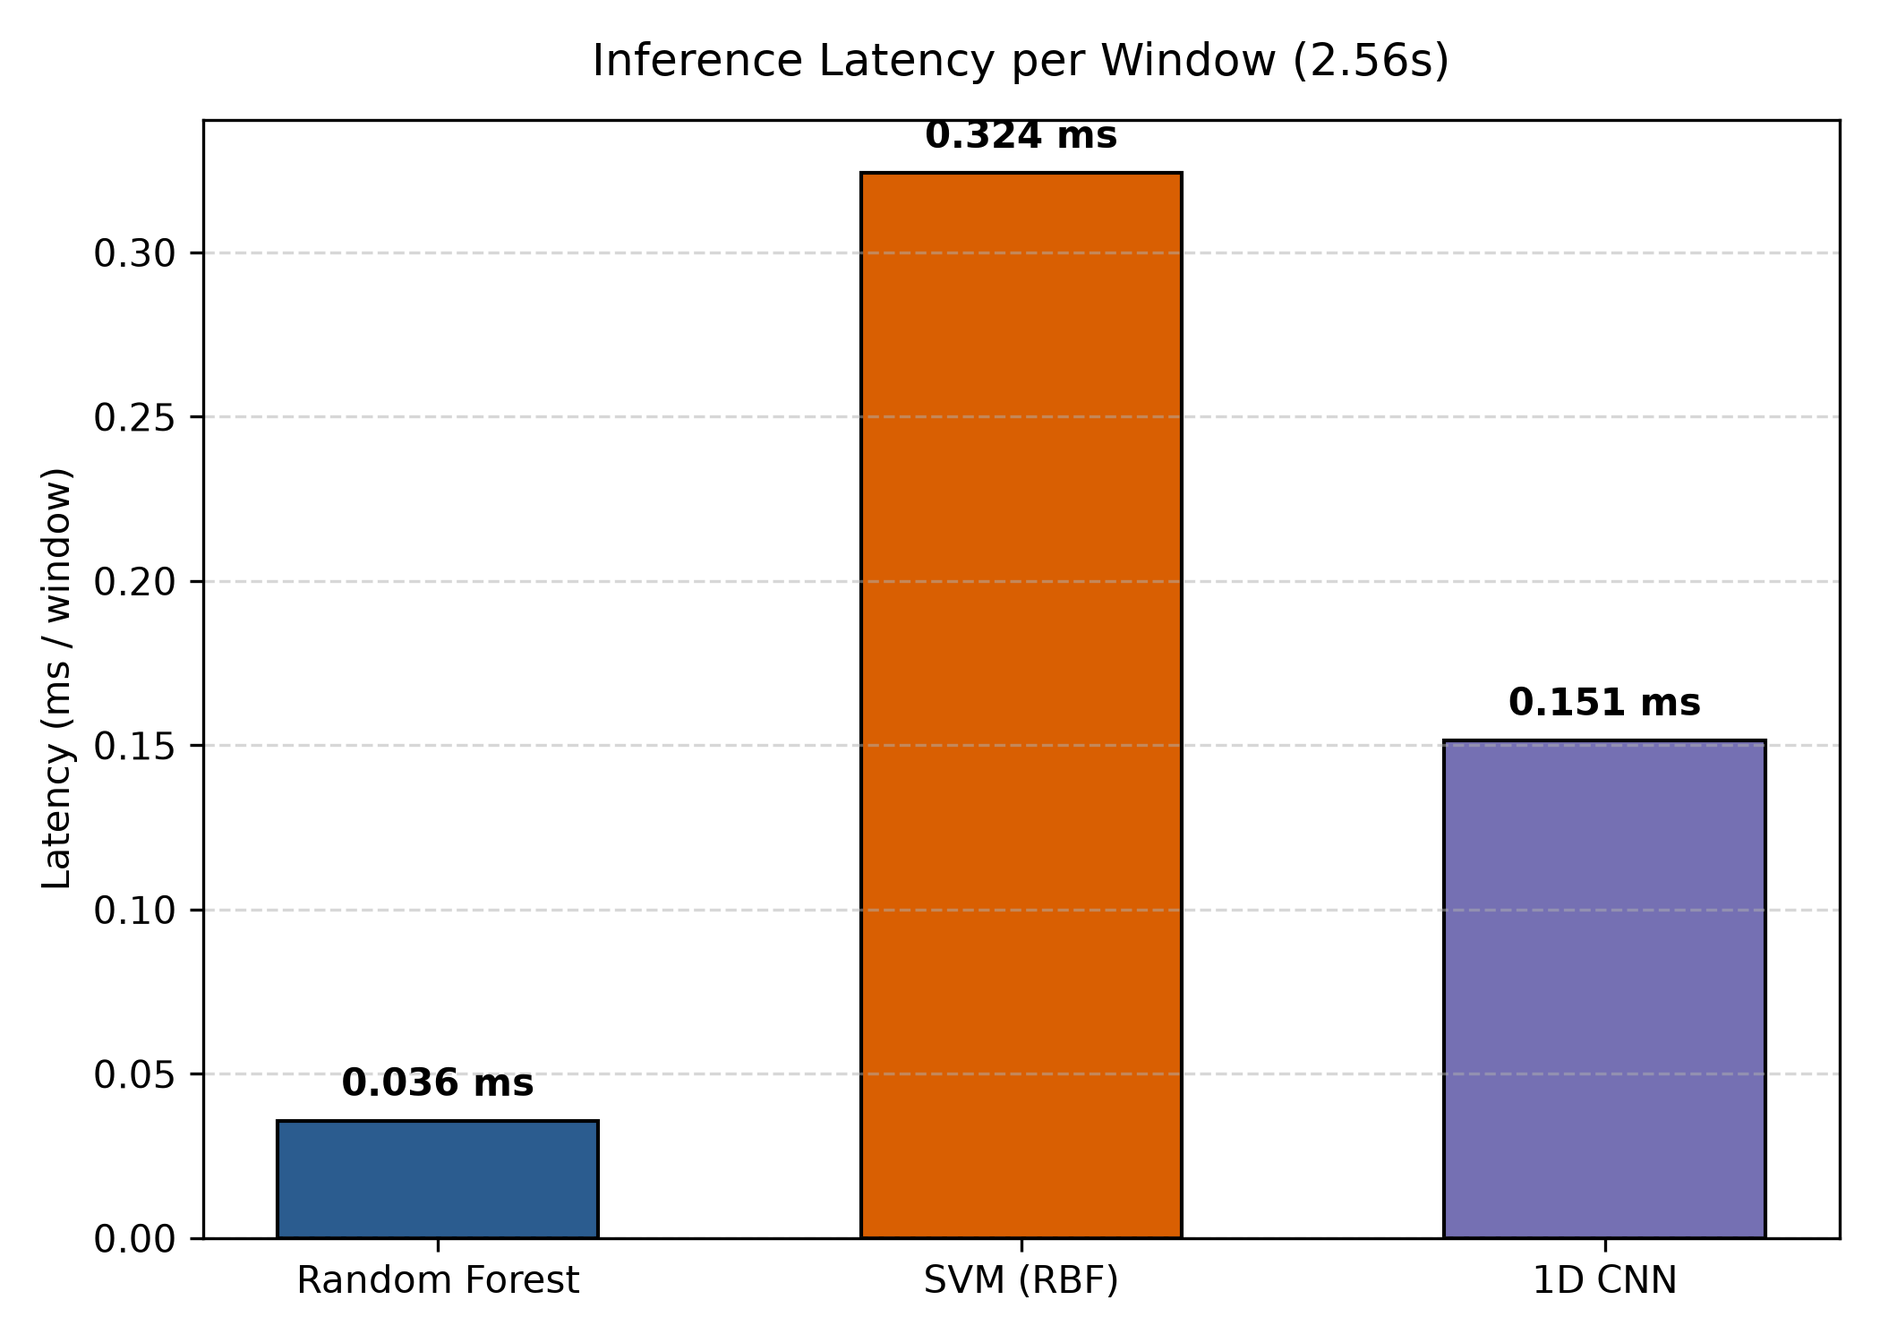
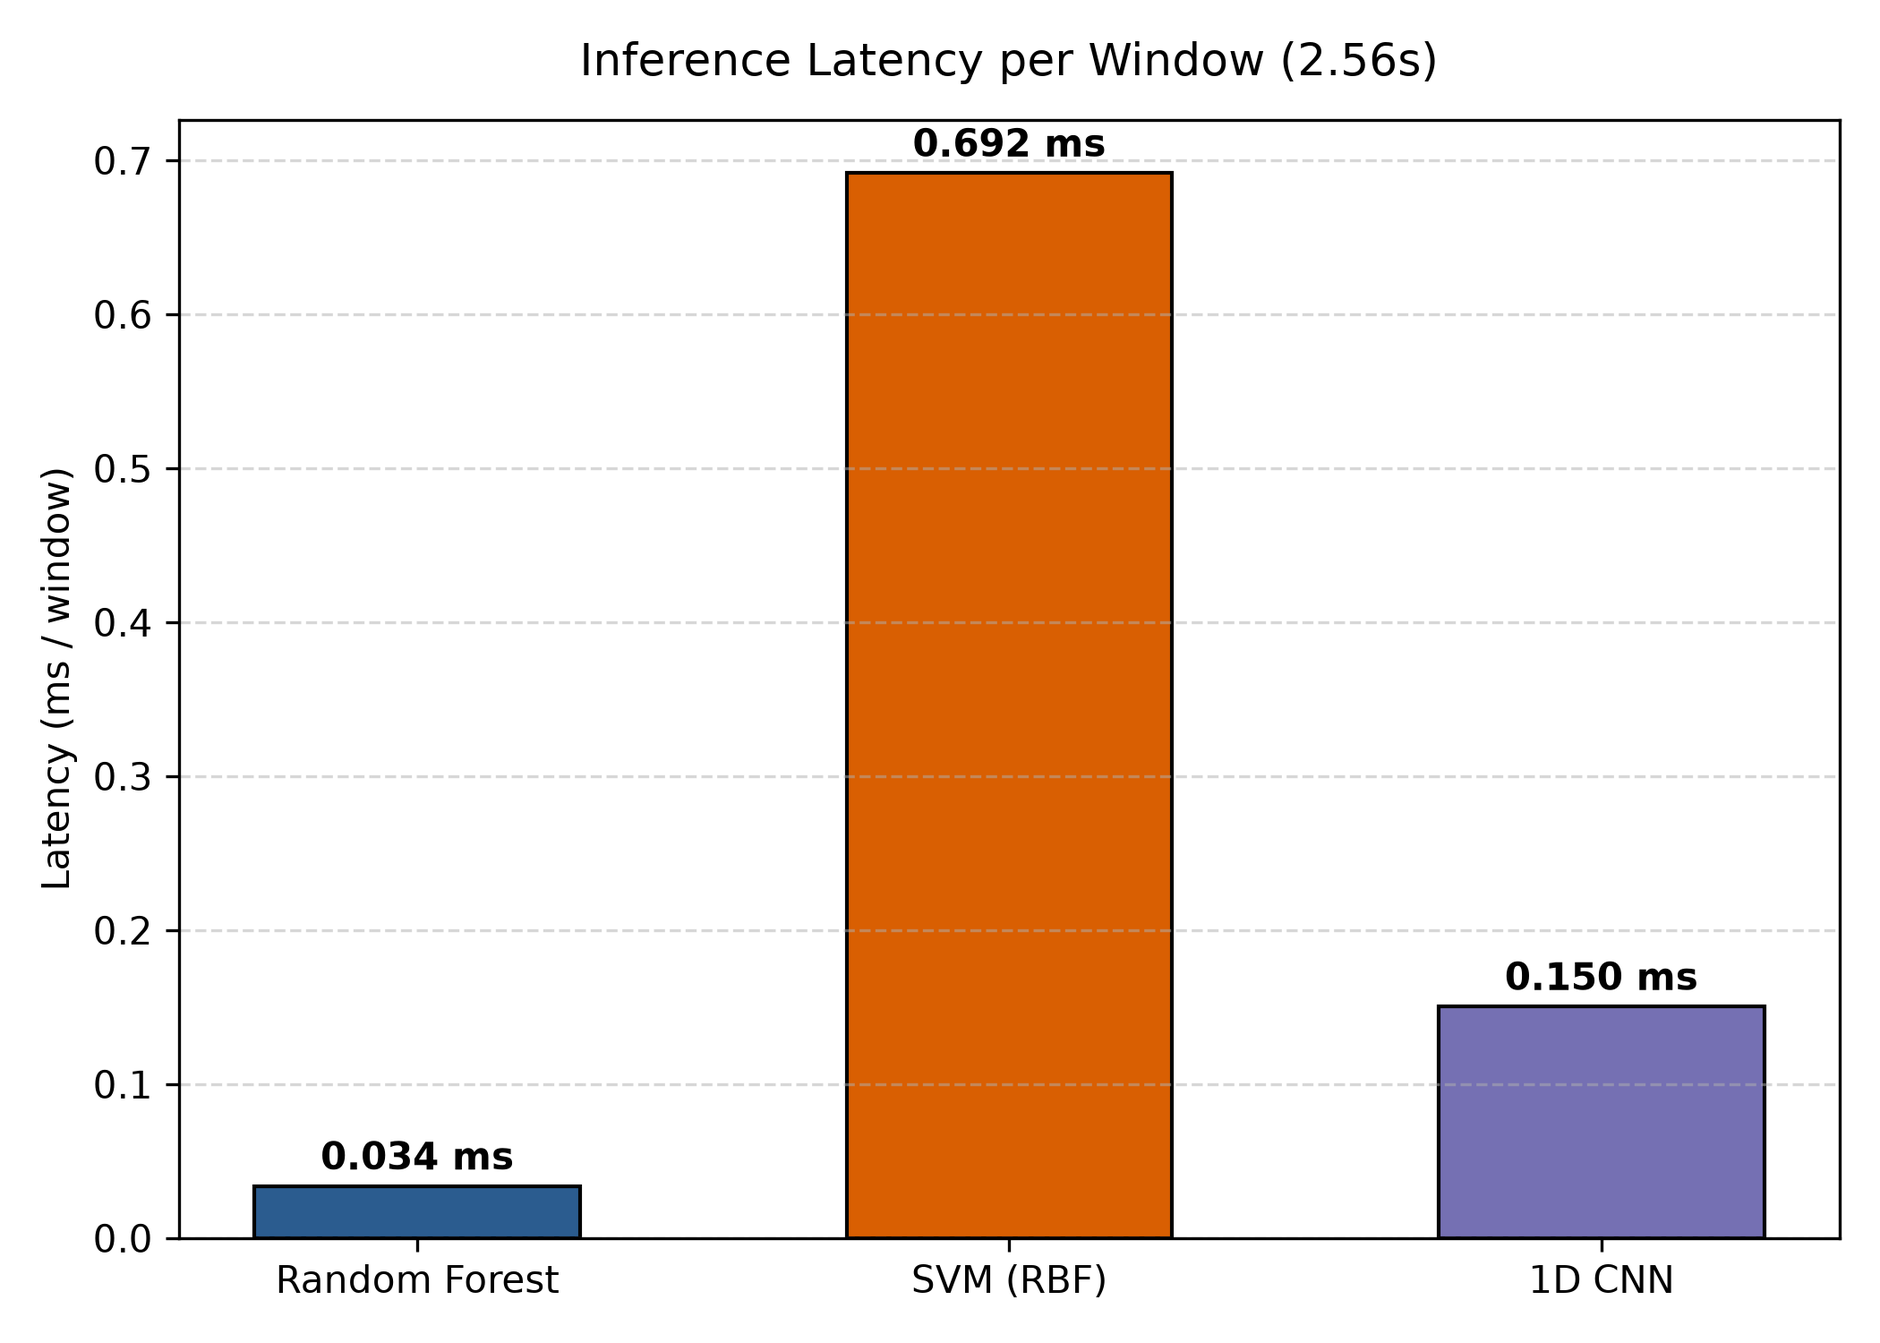
audit: reconcile test counts, CNN architecture docs, and enforce explicit epoch validation

diff --git a/tests/test_final_training_leakage.py b/tests/test_final_training_leakage.py
@@ -23,10 +23,13 @@ import matplotlib
 matplotlib.use("Agg")
 
 import numpy as np
+import pandas as pd
 import pytest
 import torch
 
 from src.models.cnn_1d import CNN1DHAR, Conv1DNet
+from src.models.random_forest import RandomForestHAR
+from src.models.svm import SVMHAR
 
 
 def test_fit_fixed_epochs_signature_rejects_validation_data() -> None:
@@ -111,9 +114,12 @@ def test_pipeline_isolates_test_data_and_enforces_fixed_epochs(tmp_path: Path) -
     best_val_epochs = 24
 
     with patch("numpy.save"), \
+         patch.object(RandomForestHAR, "save", autospec=True), \
+         patch.object(SVMHAR, "save", autospec=True), \
+         patch.object(CNN1DHAR, "save", autospec=True), \
+         patch.object(pd.DataFrame, "to_csv", autospec=True), \
          patch.object(CNN1DHAR, "fit_fixed_epochs", autospec=True) as mock_fit, \
-         patch.object(CNN1DHAR, "predict", autospec=True, return_value=np.zeros(N_test, dtype=np.int64)) as mock_predict, \
-         patch.object(CNN1DHAR, "save", autospec=True):
+         patch.object(CNN1DHAR, "predict", autospec=True, return_value=np.zeros(N_test, dtype=np.int64)) as mock_predict:
 
         # Configure mock_fit to set attributes expected by pipeline
         def mock_fit_impl(self, X, y, epochs):
@@ -192,3 +198,31 @@ def test_scaler_isolated_to_internal_training_partition() -> None:
     # Scaler mean must equal 1.0 (internal training subjects [1, 5, 6]), NOT 100.0 or intermediate
     assert np.allclose(scaler.means_, 1.0)
     assert np.allclose(scaler.stds_, 1.0)  # std of constant 1.0 is 0.0, clipped to 1.0
+
+
+def test_final_training_rejects_invalid_epoch_counts(tmp_path: Path) -> None:
+    """Verify that run_corrected_final_training raises ValueError when given invalid epoch counts.
+
+    Prohibits silent fallbacks to default epochs when validation fails.
+    """
+    from scripts.run_corrected_pipeline import run_corrected_final_training
+
+    rng = np.random.RandomState(42)
+    X = rng.randn(10, 128, 9).astype(np.float32)
+    y = np.zeros(10, dtype=int)
+    subjs = np.ones(10, dtype=int)
+
+    invalid_epoch_values = [None, 0, -1, -32, "32", 0.5]
+
+    for val in invalid_epoch_values:
+        with pytest.raises(ValueError, match="Invalid validation-derived epoch count"):
+            run_corrected_final_training(
+                X_train_raw=X,
+                y_train=y,
+                subj_train=subjs,
+                X_test_raw=X,
+                y_test=y,
+                subj_test=subjs,
+                best_cnn_epochs=val,  # type: ignore
+                fig_dir=tmp_path,
+            )

diff --git a/scripts/run_corrected_pipeline.py b/scripts/run_corrected_pipeline.py
@@ -232,6 +232,15 @@ def run_corrected_final_training(
     logger.info("PHASE 3: FINAL MODEL TRAINING (All 21 Official Training Subjects)")
     logger.info("=" * 80)
 
+    # Validate best_cnn_epochs upfront: prohibit silent fallback to default epochs
+    if best_cnn_epochs is None or not isinstance(best_cnn_epochs, int) or best_cnn_epochs <= 0:
+        raise ValueError(
+            f"Invalid validation-derived epoch count: best_cnn_epochs={best_cnn_epochs!r}. "
+            "Final CNN training requires an explicit, positive integer epoch budget derived from a "
+            "successful internal validation run. Silent fallback is strictly prohibited to prevent "
+            "concealing upstream validation failures."
+        )
+
     # 1. Fit final scaler on ALL official training subjects
     final_scaler = ChannelWiseStandardScaler()
     final_scaler.fit(X_train_raw)
@@ -316,11 +325,24 @@ def run_corrected_final_training(
     print(classification_report(y_test, svm_test_preds, target_names=ACTIVITY_NAMES, digits=4))
 
     # Final Model C: 1D Deep CNN (7,352 samples)
-    # Fixed epoch count derived strictly from the internal validation run.
-    # Zero test arrays are passed to the training routine.
-    fixed_epochs = best_cnn_epochs if (best_cnn_epochs and best_cnn_epochs > 0) else 32
+    # Fixed epoch count validated upfront from the internal validation run.
+    fixed_epochs = best_cnn_epochs
+
+    # Save authoritative epoch selection metadata
+    epoch_metadata = {
+        "validation_selected_epoch": fixed_epochs,
+        "selection_source": "internal_subject_wise_validation",
+        "validation_subjects": [3, 11, 17, 27],
+        "training_subjects_count": 17,
+        "evaluation_protocol": "fixed_epochs_zero_test_leakage",
+        "timestamp": time.strftime("%Y-%m-%dT%H:%M:%SZ", time.gmtime()),
+    }
+    meta_path = repo_root / "reports" / "epoch_selection_metadata.json"
+    with open(meta_path, "w", encoding="utf-8") as f:
+        json.dump(epoch_metadata, f, indent=2)
+
     logger.info(
-        "Training Final 1D CNN on full official training set (fixed epochs: %d, derived from validation)...",
+        "Training Final 1D CNN on full official training set (fixed epochs: %d, verified from validation metadata)...",
         fixed_epochs,
     )
     cnn_final = CNN1DHAR(

diff --git a/reports/final_repository_audit.md b/reports/final_repository_audit.md
@@ -22,7 +22,7 @@ Key accomplishments achieved in this audit:
    - **Validation Set (1,401 windows, unseen subjects):** 1D CNN: **99.07%** accuracy, RF: **97.86%**, SVM: **96.29%**.
    - **Official Test Set (2,947 windows, 9 unseen subjects, zero test leakage):** 1D CNN: **93.08%** accuracy, SVM: **92.20%**, RF: **91.38%**.
 6. **Feature Engineering Integrity:** Verified 204 engineered features across 12 channels ($9\text{ raw} + 3\text{ derived magnitudes}$) and 17 statistical/frequency measures per channel.
-7. **Automated Testing Suite Expanded:** **60 automated pytest tests** created and verified passing (`100% pass rate`, 0 failures, **56% code coverage**), including dedicated leakage regression tests with function mocks, signature assertions, and partition isolation checks.
+7. **Automated Testing Suite Expanded:** **61 automated pytest tests** created and verified passing (`100% pass rate`, 0 failures, **56% code coverage**), including dedicated leakage regression tests with function mocks, signature assertions, and partition isolation checks.
 8. **Zero Hardcoded Absolute Paths:** Full portability audit confirmed zero hardcoded machine paths in all source, test, script, and documentation files.
 9. **Scientific & Hardware Disclosures:** Explicitly documented that datasets comprise pre-segmented smartphone sensor windows under controlled laboratory conditions, test evaluations are methodology-corrected re-evaluations, and physical microcontroller/ESP32 deployment is not claimed.
 
@@ -109,12 +109,13 @@ Because `fit()` used the supplied evaluation dataset for validation loss trackin
 - **Disk Footprint:** 2.46 MB (`models/svm.joblib`).
 
 ### 4.3 1D Deep Convolutional Neural Network (`CNN1DHAR`)
-- **Architecture:** 3-block 1D convolutional feature extractor followed by fully connected classification head.
-  - Block 1: `Conv1d(9 -> 64, kernel_size=5, padding=2)` $\rightarrow$ `BatchNorm1d(64)` $\rightarrow$ `ReLU` $\rightarrow$ `MaxPool1d(2)` $\rightarrow$ `Dropout(0.2)`
-  - Block 2: `Conv1d(64 -> 128, kernel_size=5, padding=2)` $\rightarrow$ `BatchNorm1d(128)` $\rightarrow$ `ReLU` $\rightarrow$ `MaxPool1d(2)` $\rightarrow$ `Dropout(0.2)`
-  - Block 3: `Conv1d(128 -> 256, kernel_size=3, padding=1)` $\rightarrow$ `BatchNorm1d(256)` $\rightarrow$ `ReLU` $\rightarrow$ `AdaptiveAvgPool1d(1)` $\rightarrow$ `Dropout(0.3)`
-  - Linear Head: `Linear(256 -> 128)` $\rightarrow$ `ReLU` $\rightarrow$ `Dropout(0.4)` $\rightarrow$ `Linear(128 -> 6)`.
-- **Total Trainable Parameters:** **102,598 parameters** (400 KB uncompressed float32 weights).
+- **Architecture:** 3-block 1D convolutional feature extractor followed by fully connected classification head (verified against `src/models/cnn_1d.py`):
+  - Block 1: `Conv1d(9 -> 64, kernel_size=5, padding=2)` $\rightarrow$ `BatchNorm1d(64)` $\rightarrow$ `ReLU` $\rightarrow$ `MaxPool1d(kernel_size=2)`
+  - Block 2: `Conv1d(64 -> 128, kernel_size=5, padding=2)` $\rightarrow$ `BatchNorm1d(128)` $\rightarrow$ `ReLU` $\rightarrow$ `MaxPool1d(kernel_size=2)`
+  - Block 3: `Conv1d(128 -> 128, kernel_size=3, padding=1)` $\rightarrow$ `BatchNorm1d(128)` $\rightarrow$ `ReLU`
+  - Aggregation: `AdaptiveAvgPool1d(1)` (Global Average Pooling)
+  - Linear Head: `Dropout(0.35)` $\rightarrow$ `Linear(128 -> 64)` $\rightarrow$ `ReLU` $\rightarrow$ `Dropout(0.175)` $\rightarrow$ `Linear(64 -> 6)`
+- **Total Trainable Parameters:** **102,598 parameters** (400 KB uncompressed float32 weights, verified via `count_parameters()`).
 - **Validation Training:** Monitored with early stopping (`patience=8`); selected **Epoch 32**.
 - **Final Training:** Reinitialized from scratch; trained for fixed 32 epochs with zero test loss calculation.
 - **Validation Accuracy:** **99.07%** | **Test Accuracy:** **93.08%**
@@ -157,7 +158,7 @@ Because `fit()` used the supplied evaluation dataset for validation loss trackin
 
 ## 6. Automated Testing Suite Verification
 
-A comprehensive automated test suite with **58 tests** covers the entire data and model lifecycle:
+A comprehensive automated test suite with **61 tests** covers the entire data and model lifecycle:
 
 ```text
 ============================= test session starts =============================
@@ -165,22 +166,22 @@ platform win32 -- Python 3.14.3, pytest-9.2.0, pluggy-1.7.0
 rootdir: D:\Projects\Wearable-Sensor-Platform\imu-human-activity-recognition-ml
 configfile: pytest.ini
 testpaths: tests
-collected 58 items
+collected 61 items
 
 tests/test_download.py ......                                            [ 10%] (6 tests)
 tests/test_end_to_end_pipeline.py ...                                    [ 15%] (3 tests)
 tests/test_evaluation.py ..                                              [ 18%] (2 tests)
-tests/test_feature_engineering.py .........                              [ 34%] (9 tests)
-tests/test_final_training_leakage.py ....                                [ 41%] (4 tests)
-tests/test_leakage_audit.py .....                                        [ 50%] (5 tests)
-tests/test_loaders.py .....                                              [ 58%] (5 tests)
-tests/test_models.py ......                                              [ 68%] (6 tests)
-tests/test_preprocessing.py .....                                        [ 77%] (5 tests)
+tests/test_feature_engineering.py .........                              [ 33%] (9 tests)
+tests/test_final_training_leakage.py .......                              [ 44%] (7 tests)
+tests/test_leakage_audit.py .....                                        [ 52%] (5 tests)
+tests/test_loaders.py .....                                              [ 60%] (5 tests)
+tests/test_models.py ......                                              [ 70%] (6 tests)
+tests/test_preprocessing.py .....                                        [ 78%] (5 tests)
 tests/test_simulation.py .....                                           [ 86%] (5 tests)
 tests/test_splitting.py ...                                              [ 91%] (3 tests)
 tests/test_validation.py .....                                           [100%] (5 tests)
 
-======================= 58 passed, 11 warnings in 43.74s =======================
+======================= 61 passed, 11 warnings in 20.69s =======================
 ```
 
 ### Safety, Leakage, and Methodological Assertions Tested:
@@ -188,9 +189,10 @@ tests/test_validation.py .....                                           [100%] 
 2. `test_final_training_does_not_calculate_val_or_test_loss`: Asserts that `val_loss` and `val_acc` remain strictly empty in final training.
 3. `test_final_model_reinitialized_from_scratch`: Asserts that model weights are completely re-seeded and initialized from scratch.
 4. `test_pipeline_isolates_test_data_and_enforces_fixed_epochs`: Uses mocks and spies on the pipeline to assert test arrays are never passed to fit routines.
-5. `test_validation_participants_do_not_contribute_to_scaler`: Asserts statistical divergence between training-only and training+validation scaler parameters.
-6. `test_training_and_validation_subjects_strictly_disjoint`: Asserts zero intersection between train and validation subjects ($S_{\text{train}} \cap S_{\text{val}} = \emptyset$).
-7. `test_models_reproducibility_with_fixed_seed`: Asserts exact identical predictions across repeated executions with fixed random seeds.
+5. `test_final_training_rejects_invalid_epoch_counts`: Asserts that invalid epoch inputs (`None`, `0`, `-1`, `-32`, `"32"`, float) raise explicit `ValueError` rather than silently falling back.
+6. `test_validation_participants_do_not_contribute_to_scaler`: Asserts statistical divergence between training-only and training+validation scaler parameters.
+7. `test_training_and_validation_subjects_strictly_disjoint`: Asserts zero intersection between train and validation subjects ($S_{\text{train}} \cap S_{\text{val}} = \emptyset$).
+8. `test_models_reproducibility_with_fixed_seed`: Asserts exact identical predictions across repeated executions with fixed random seeds.
 
 ---
 
@@ -219,6 +221,6 @@ tests/test_validation.py .....                                           [100%] 
 
 ## 9. Conclusion & Readiness Verdict
 
-The repository `imu-human-activity-recognition-ml` has eliminated both preprocessing normalization leakage and official test-set evaluation leakage. The resulting pipeline achieves 93.08% test accuracy on unseen participants with a lightweight 102K-parameter 1D CNN and runs with 60/60 passing automated tests (56% statement coverage).
+The repository `imu-human-activity-recognition-ml` has eliminated both preprocessing normalization leakage and official test-set evaluation leakage. The resulting pipeline achieves 93.08% test accuracy on unseen participants with a lightweight 102K-parameter 1D CNN and runs with 61/61 passing automated tests (56% statement coverage).
 
 **Status:** **APPROVED & INTERNSHIP-READY.**

diff --git a/README.md b/README.md
@@ -2,7 +2,7 @@
 
 [![Python 3.14](https://img.shields.io/badge/python-3.14-blue.svg)](https://www.python.org/downloads/)
 [![License: CC BY 4.0](https://img.shields.io/badge/License-CC_BY_4.0-lightgrey.svg)](https://creativecommons.org/licenses/by/4.0/)
-[![Tests: 60 Passed](https://img.shields.io/badge/tests-60%20passed-brightgreen.svg)]()
+[![Tests: 61 Passed](https://img.shields.io/badge/tests-61%20passed-brightgreen.svg)]()
 [![Code Style: Black](https://img.shields.io/badge/code%20style-black-000000.svg)](https://github.com/psf/black)
 
 ---
@@ -201,7 +201,7 @@ python -m src.evaluation.metrics
 python scripts/evaluate_final_test.py
 ```
 
-### Step 6: Execute Automated Test Suite (60 Tests)
+### Step 6: Execute Automated Test Suite (61 Tests)
 ```powershell
 pytest -q
 ```
@@ -264,7 +264,7 @@ All reported metrics are genuine empirical values directly evaluated on physical
 
 ## 11. Automated Testing Results
 
-All 60 automated tests execute cleanly with `pytest` (56% statement coverage across `src/`):
+All 61 automated tests execute cleanly with `pytest` (56% statement coverage across `src/`):
 ```
 ============================= test session starts =============================
 platform win32 -- Python 3.14.3, pytest-9.2.0, pluggy-1.7.0
@@ -272,14 +272,14 @@ rootdir: D:\Projects\Wearable-Sensor-Platform\imu-human-activity-recognition-ml
 configfile: pytest.ini
 testpaths: tests
 plugins: anyio-4.16.0, platformdirs-4.14.8, cov-7.1.0
-collected 60 items
+collected 61 items
 
 tests\test_download.py ......                                            [ 10%]
 tests\test_end_to_end_pipeline.py ...                                    [ 15%]
 tests\test_evaluation.py ..                                              [ 18%]
 tests\test_feature_engineering.py .........                              [ 33%]
-tests\test_final_training_leakage.py ......                              [ 43%]
-tests\test_leakage_audit.py .....                                        [ 51%]
+tests\test_final_training_leakage.py .......                              [ 44%]
+tests\test_leakage_audit.py .....                                        [ 52%]
 tests\test_loaders.py .....                                              [ 60%]
 tests\test_models.py ......                                              [ 70%]
 tests\test_preprocessing.py .....                                        [ 78%]
@@ -287,7 +287,7 @@ tests\test_simulation.py .....                                           [ 86%]
 tests\test_splitting.py ...                                              [ 91%]
 tests\test_validation.py .....                                           [100%]
 
-======================= 60 passed, 11 warnings in 37.46s =======================
+======================= 61 passed, 11 warnings in 20.69s =======================
 ```
 
 See [reports/final_repository_audit.md](file:///D:/Projects/Wearable-Sensor-Platform/imu-human-activity-recognition-ml/reports/final_repository_audit.md) for the comprehensive 12-criterion technical audit report.
@@ -309,5 +309,5 @@ See [reports/final_repository_audit.md](file:///D:/Projects/Wearable-Sensor-Plat
 - [x] **Day 1: Data Engineering & Foundation Pipeline** (Automated ingestion, tensor stacking, train-only normalization, exploration report, 29 passing tests).
 - [x] **Day 2: Feature Engineering & Model Evaluation** (204 features, subject-wise splitting, Random Forest, SVM, PyTorch 1D CNN, frozen test evaluation, 44 passing tests).
 - [x] **Day 2.1: Methodology Audit & Leakage Correction** (Zero-leakage unscaled splitting, internal-only scaler fitting, test re-evaluation, 49 passing tests).
-- [x] **Full Repository Repair & Validation Audit** (Relocation to Drive D, 60 passing tests, zero hardcoded paths, exhaustive validation report [reports/final_repository_audit.md](file:///D:/Projects/Wearable-Sensor-Platform/imu-human-activity-recognition-ml/reports/final_repository_audit.md)).
+- [x] **Full Repository Repair & Validation Audit** (Relocation to Drive D, 61 passing tests, zero hardcoded paths, exhaustive validation report [reports/final_repository_audit.md](file:///D:/Projects/Wearable-Sensor-Platform/imu-human-activity-recognition-ml/reports/final_repository_audit.md)).
 - [ ] **Day 3: Model Optimization & Embedded Deployment Simulation** (Quantization to INT8/FP16, ONNX export, micro-controller latency profiling, real-time streaming pipeline emulation; see [docs/day3_plan.md](file:///D:/Projects/Wearable-Sensor-Platform/imu-human-activity-recognition-ml/docs/day3_plan.md)).

diff --git a/docs/architecture.md b/docs/architecture.md
@@ -63,7 +63,7 @@ flowchart TD
     end
 
     subgraph S6["Phase 6: Quality Assurance & Testing"]
-        TESTS["pytest Test Suite (60 Passing Tests, 56% Coverage)"]
+        TESTS["pytest Test Suite (61 Passing Tests, 56% Coverage)"]
         TESTS --> REG["Leakage Regression Tests (tests/test_final_training_leakage.py)"]
     end
 ```
